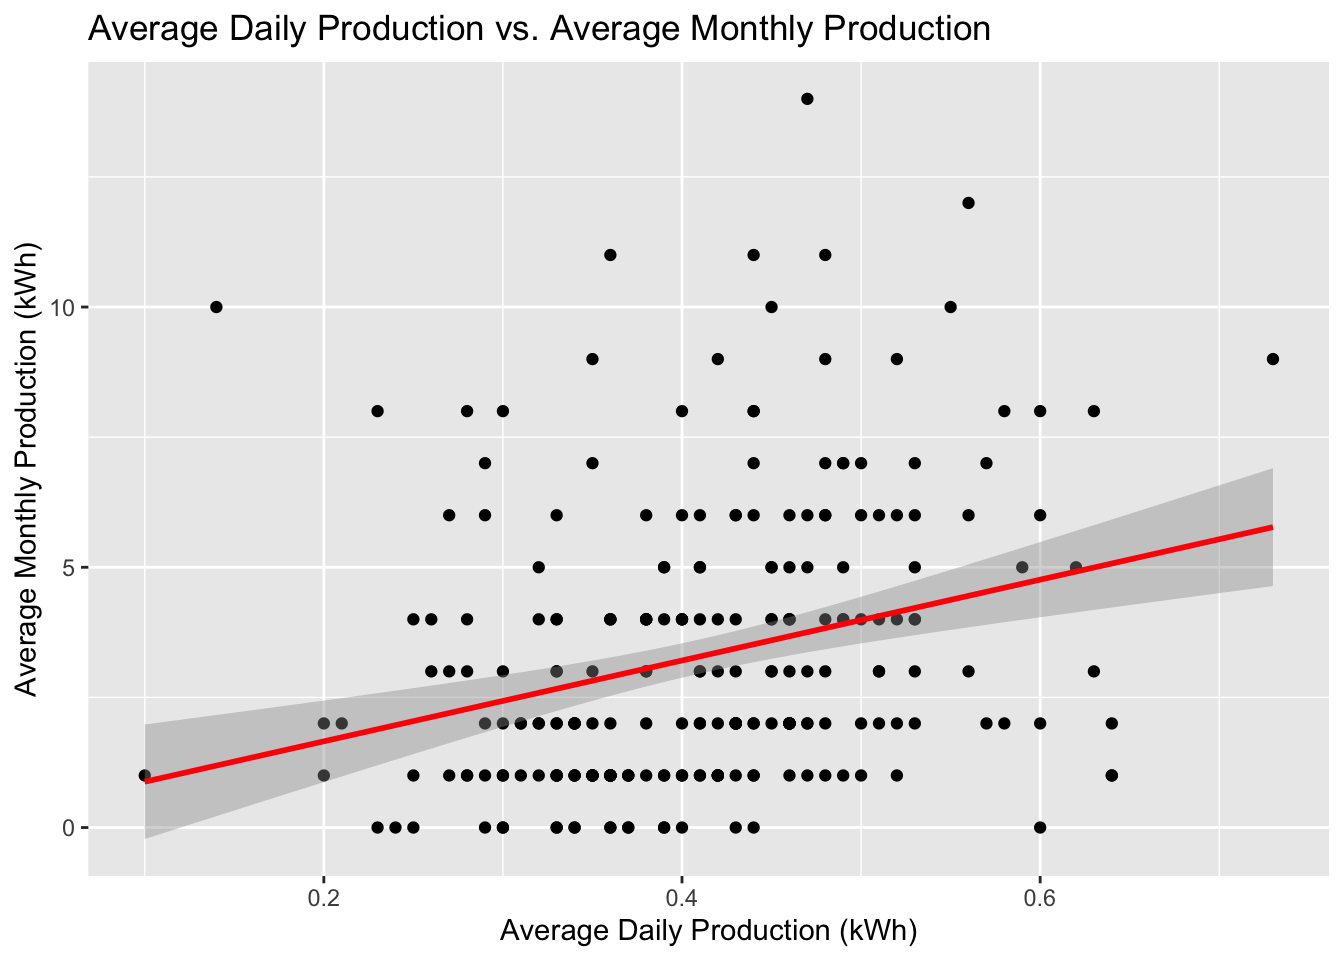
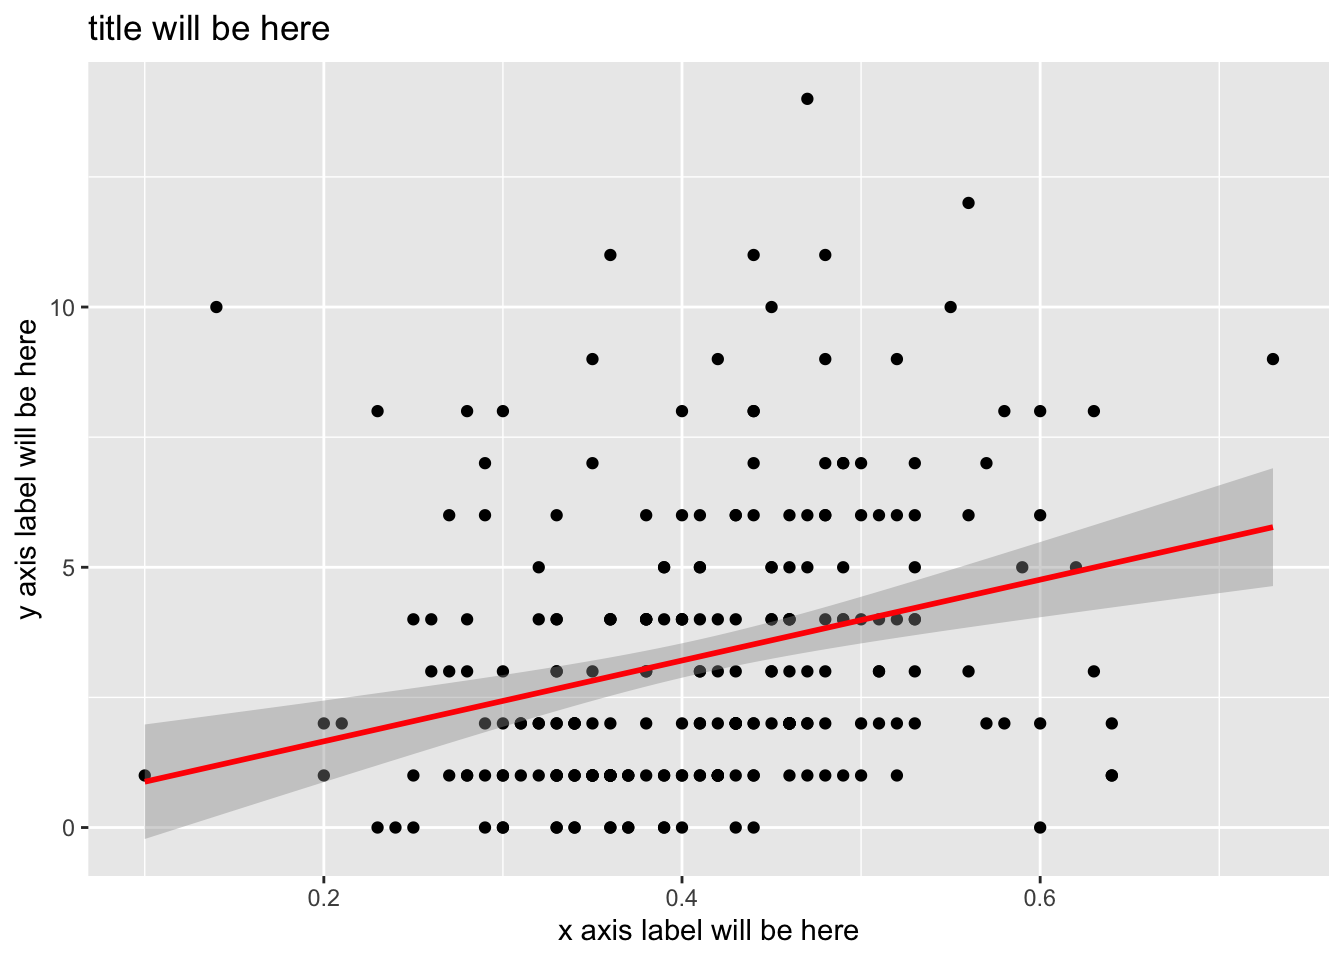
added graphs to see how they look

diff --git a/index.html b/index.html
@@ -461,16 +461,30 @@ background: #141c2b;
 <div class="cell">
 <details class="code-fold">
 <summary>Code</summary>
-<div class="sourceCode cell-code" id="cb6"><pre class="sourceCode numberSource r number-lines code-with-copy"><code class="sourceCode r"><span id="cb6-1"><a href="#cb6-1"></a><span class="co"># Scatter plot of Average Daily Production vs. Total Monthly Production</span></span>
+<div class="sourceCode cell-code" id="cb6"><pre class="sourceCode numberSource r number-lines code-with-copy"><code class="sourceCode r"><span id="cb6-1"><a href="#cb6-1"></a><span class="co"># Scatter plot </span></span>
 <span id="cb6-2"><a href="#cb6-2"></a><span class="fu">ggplot</span>(my_data, <span class="fu">aes</span>(<span class="at">x =</span> credit_utilization_ratio, <span class="at">y =</span> number_of_late_payments)) <span class="sc">+</span></span>
 <span id="cb6-3"><a href="#cb6-3"></a>  <span class="fu">geom_point</span>() <span class="sc">+</span></span>
 <span id="cb6-4"><a href="#cb6-4"></a>  <span class="fu">geom_smooth</span>(<span class="at">method =</span> <span class="st">"lm"</span>, <span class="at">col =</span> <span class="st">"red"</span>) <span class="sc">+</span></span>
-<span id="cb6-5"><a href="#cb6-5"></a>  <span class="fu">labs</span>(<span class="at">title =</span> <span class="st">'Average Daily Production vs. Average Monthly Production'</span>, <span class="at">x =</span> <span class="st">'Average Daily Production (kWh)'</span>, <span class="at">y =</span> <span class="st">'Average Monthly Production (kWh)'</span>)</span></code><button title="Copy to Clipboard" class="code-copy-button"><i class="bi"></i></button></pre></div>
+<span id="cb6-5"><a href="#cb6-5"></a>  <span class="fu">labs</span>(<span class="at">title =</span> <span class="st">'title will be here'</span>, <span class="at">x =</span> <span class="st">'x axis label will be here'</span>, <span class="at">y =</span> <span class="st">'y axis label will be here'</span>)</span></code><button title="Copy to Clipboard" class="code-copy-button"><i class="bi"></i></button></pre></div>
 </details>
 <div class="cell-output-display">
 <div>
 <figure class="figure">
 <p><img src="index_files/figure-html/unnamed-chunk-4-1.png" class="img-fluid figure-img" width="672"></p>
+</figure>
+</div>
+</div>
+<details class="code-fold">
+<summary>Code</summary>
+<div class="sourceCode cell-code" id="cb7"><pre class="sourceCode numberSource r number-lines code-with-copy"><code class="sourceCode r"><span id="cb7-1"><a href="#cb7-1"></a><span class="co">#Bar plot</span></span>
+<span id="cb7-2"><a href="#cb7-2"></a><span class="fu">ggplot</span>(my_data, <span class="fu">aes</span>(<span class="at">x =</span> occupation)) <span class="sc">+</span></span>
+<span id="cb7-3"><a href="#cb7-3"></a>  <span class="fu">geom_bar</span>(<span class="at">fill =</span> <span class="st">'blue'</span>) <span class="sc">+</span></span>
+<span id="cb7-4"><a href="#cb7-4"></a>  <span class="fu">labs</span>(<span class="at">title =</span> <span class="st">'Distribution of individuals by occupation in sample'</span>, <span class="at">x =</span> <span class="st">'Occupation type'</span>, <span class="at">y =</span> <span class="st">'Count'</span>)</span></code><button title="Copy to Clipboard" class="code-copy-button"><i class="bi"></i></button></pre></div>
+</details>
+<div class="cell-output-display">
+<div>
+<figure class="figure">
+<p><img src="index_files/figure-html/unnamed-chunk-4-2.png" class="img-fluid figure-img" width="672"></p>
 </figure>
 </div>
 </div>
